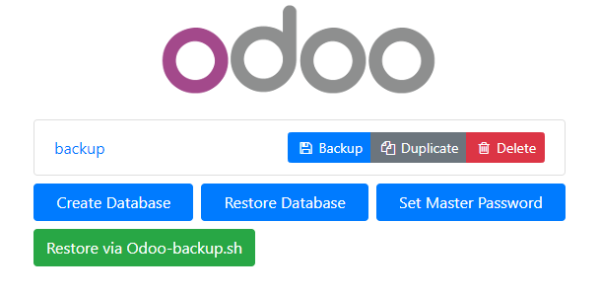
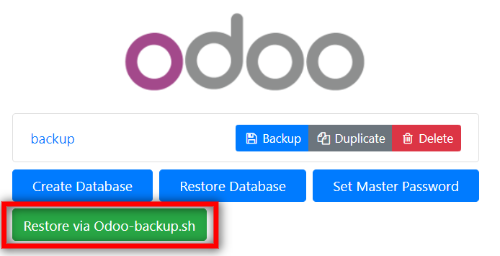
:book: upd docs based on dev and seo feedbacks'

diff --git a/odoo_backup_sh/static/description/index.html b/odoo_backup_sh/static/description/index.html
@@ -2,7 +2,7 @@
     <div class="oe_row oe_spaced">
         <div class="oe_span12">
             <h2 class="oe_slogan">Odoo Backups </h2>
-            <h3 class="oe_slogan"> Create, save, duplicate, delete, restore backups</h3>
+            <h3 class="oe_slogan"> Restore backups in one click</h3>
         </div>
     </div>
 </section>
@@ -11,8 +11,11 @@
     <div class="oe_row oe_spaced">
         <div class="oe_span12">
             <p class="oe_mt32">
-                Main feature: no need to download and upload a database archive via a browser.
-                Also you can encrypting backup archives.
+            <ul>
+                <li> This module provides an additional option for simplifying the process of managing backups with the <i>Restore a backup via Odoo-backup.sh</i> button.</li>
+                <li> Main feature: no need to download and upload a database archive via a browser.</li>
+                <li> Also you can encrypting backup archives.</li>
+            </ul>
             </p>
         </div>
     </div>
@@ -23,119 +26,88 @@
     <div class="oe_row oe_spaced">
         <div class="oe_span12">
             <h3 class="oe_slogan">How it works</h3>
+            <h2 class="oe_slogan">Backups </h2>
             <p class="oe_mt32">
-                Go to <b>Backup Dashboard</b> and press <i>Add</i> button
+                Open the menu <b>[[ Backups ]] >> Dashboard</b>
+            </p>
+            <div class="oe_demo oe_picture oe_screenshot">
+                <img src="dashboard.png"/>
+            </div>
+            <p class="oe_mt32">
+                After redirection please login into your <a href="https://www.dropbox.com/developers/apps"> Odoo account </a>
+            </p>
+            <p class="oe_mt32">
+                Set up a new configuration  <b>[[ Backups ]] >> Dashboard >> Add Database</b>
             </p>
             <div class="oe_demo oe_picture oe_screenshot">
                 <img src="add_button.png"/>
             </div>
             <p class="oe_mt32">
-                Login into your <a href="https://www.dropbox.com/developers/apps"> Odoo account </a> and start your backup process
+            <ul>
+                <li> Choose the Database in the database field</li>
+                <li> Encrypt your backup if you need, but do not forget the password</li>
+                <li> Enter <i>Interval Number, Interval Unit, New execution Date</i></li>
+                <li> Select/unselect <i>"Active"</i> checkbox </li>
+                <li> Click on <b>Save</b> button </li>
+                <li> Go to <b>[[ Backups ]] >> Dashboard</b> </li>
+                <li> Click on <b>New Backup</b> in the appeared configuration </li>
+            </ul>
             </p>
+            <div class="oe_demo oe_picture oe_screenshot">
+                <img src="configuration.png"/>
+            </div>
+
+            <div class="oe_row oe_spaced">
+                    <div class="oe_span12">
+                        <p class="oe_mt32">
+                            You can see details of your backups in the <i>Table format</i>
+                        </p>
+                        <div class="oe_demo oe_picture oe_screenshot">
+                            <img src="odoosh_details_table.png"/>
+                        </div>
+                    </div>
+            </div>
+
+            <div class="oe_row oe_spaced">
+                    <div class="oe_span12">
+                        <p class="oe_mt32">
+                            You can see a <i>Visual representation</i> of your backups</i>
+                        </p>
+                        <div class="oe_demo oe_picture oe_screenshot">
+                            <img src="odoosh_dashboard.png"/>
+                        </div>
+                    </div>
+            </div>
+
+            <h2 class="oe_slogan">Restore </h2>
+            <p class="oe_mt32">
+            <ul>
+                <li> Please proceed to the Database Manager: <b>/web/database/manager </b> </li>
+                <li> Click on <b>Restore via Odoo-backup.sh</b> button </li>
             <div class="oe_demo oe_picture oe_screenshot">
                 <img src="odoo.png"/>
             </div>
-        </div>
-    </div>
-</section>
-
-<section class="oe_container">
-    <div class="oe_row oe_spaced">
-        <div class="oe_span12">
-            <p class="oe_mt32">
-                This service provides a wide range of options for managing backups
-            </p>
-            <p class="oe_mt32">
-            <ul>
-                <li>Save a backup </li>
-                <li>Duplicate a backup</li>
-                <li>Delete a backup</li>
-                <li>Create a backup</li>
-                <li>Restore a backup</li>
-                <li>Restore a backup via Odoo-backup.sh module</li>
-            </ul>
-            </p>
-        </div>
-    </div>
-</section>
-
-<section class="oe_container oe_dark">
-    <div class="oe_row oe_spaced">
-        <div class="oe_span12">
-            <p class="oe_mt32">
-                Save a backup by choosing format you need to and confirm the action with a Master password</i>
-            </p>
-            <div class="oe_demo oe_picture oe_screenshot">
-                <img src="save.png"/>
-            </div>
-        </div>
-    </div>
-</section>
-
-<section class="oe_container oe_dark">
-    <div class="oe_row oe_spaced">
-        <div class="oe_span12">
-            <p class="oe_mt32">
-                Duplicate a backup by setting up a new name and confirm the action with a Master password</i>
-            </p>
-            <div class="oe_demo oe_picture oe_screenshot">
-                <img src="duplicate.png"/>
-            </div>
-        </div>
-    </div>
-</section>
-
-<section class="oe_container oe_dark">
-    <div class="oe_row oe_spaced">
-        <div class="oe_span12">
-            <p class="oe_mt32">
-                Delete a backup by confirming the action with a Master password</i>
-            </p>
-            <div class="oe_demo oe_picture oe_screenshot">
-                <img src="delete.png"/>
-            </div>
-        </div>
-    </div>
-</section>
-
-<section class="oe_container oe_dark">
-    <div class="oe_row oe_spaced">
-        <div class="oe_span12">
-            <p class="oe_mt32">
-                Create a backup by filling special forms and confirm the action with a Master password</i>
-            </p>
-            <div class="oe_demo oe_picture oe_screenshot">
-                <img src="create.png"/>
-            </div>
-        </div>
-    </div>
-</section>
-
-<section class="oe_container oe_dark">
-    <div class="oe_row oe_spaced">
-        <div class="oe_span12">
-            <p class="oe_mt32">
-                Restore a backup by choosing an archive and confirm the action with a Master password</i>
-            </p>
-            <div class="oe_demo oe_picture oe_screenshot">
-                <img src="restore.png"/>
-            </div>
-        </div>
-    </div>
-</section>
-
-<section class="oe_container oe_dark">
-    <div class="oe_row oe_spaced">
-        <div class="oe_span12">
-            <p class="oe_mt32">
-                Restore backups via Odoo-backup.sh module just pressing appropriate buttons from the right side</i>
-            </p>
+                <li> Choose the backup that you want to restore</li>
             <div class="oe_demo oe_picture oe_screenshot">
                 <img src="restoresh.png"/>
             </div>
+            </ul>
+            </p>
+            <p class="oe_mt32">
+            <ul>
+                <li> In the open Pop-up window enter <i>Master Password</i>, fill the <i>Database Name</i> </li>
+                <li> In order to avoid conflicts between databases choose if this database <i>was moved</i> or <i>copied</i> </li>
+                <li> Click on <b>Continue</b> button</li>
+            </ul>
+            </p>
+            <div class="oe_demo oe_picture oe_screenshot">
+                <img src="popup.png"/>
+            </div>
+            Backup is restored in one click without any additional manipulations such as <i>downloading-uploading</i> process.
         </div>
     </div>
 </section>
+
 
 
 <section class="oe_container">

diff --git a/odoo_backup_sh_google_disk/static/description/index.html b/odoo_backup_sh_google_disk/static/description/index.html
@@ -101,10 +101,25 @@
         <div class="oe_span12">
             <p class="oe_mt32">
             <ul>
-                <li>Define the <i>Name</i> </li>
-                <li>Create the <i>Password</i> if you want to encrypt the Backup</li>
-                <li>Schedule Auto Backups</li>
-                <li>Set up how many backups to preserve for certain time frames</li>
+                <li>Open the menu <b>[[ Backups ]] >> Settings</b></li>
+                <li>Choose the Dropbox and click on ``Save`` button</li>
+                <li>Enter <i>Service Account File path</i></li>
+                <li>Enter <i>Google Drive Folder ID</i></li>
+                <li>Click on ``Save`` and come back to set up the feature</li>
+            </ul>
+            <div class="oe_demo oe_picture oe_screenshot">
+                <img src="google_drive_config.png"/>
+            </div>
+            <ul>
+                <li>Set up a new configuration  <b>[[ Backups ]] >> Dashboard >> Add Database</b></li>
+                <li>Choose the Database in the database field</li>
+                <li>Define the Storage service</li>
+                <li>Encrypt your backup if you need, but do not forget the password</li>
+                <li>Enter <i>Interval Number</i>, <i>Interval Unit</i>, <i>New execution Date</i></li>
+                <li>Select/unselect <i>"Active" checkbox</i></li>
+                <li>Click on ``Save``</li>
+                <li>Go to ``[[ Backups ]] >> Dashboard``</li>
+                <li>Click on ``New Backup`` in the appeared configuration</li>
             </ul>
             </p>
             <div class="oe_demo oe_picture oe_screenshot">
@@ -113,6 +128,8 @@
         </div>
     </div>
 </section>
+
+
 
 <section class="oe_container oe_dark">
     <div class="oe_row oe_spaced">

diff --git a/odoo_backup_sh_dropbox/static/description/index.html b/odoo_backup_sh_dropbox/static/description/index.html
@@ -82,10 +82,25 @@
         <div class="oe_span12">
             <p class="oe_mt32">
             <ul>
-                <li>Define the <i>Name</i> </li>
-                <li>Create the <i>Password</i> if you want to encrypt the Backup</li>
-                <li>Schedule Auto Backups</li>
-                <li>Set up how many backups to preserve for certain time frames</li>
+                <li>Open the menu <b>[[ Backups ]] >> Settings</b></li>
+                <li>Choose the Dropbox and click on ``Save`` button</li>
+                <li>Enter <i>Dropbox Access Token</i></li>
+                <li>Enter <i>Dropbox Folder Path</i></li>
+                <li>Click on ``Save`` and come back to set up the feature</li>
+            </ul>
+                <div class="oe_demo oe_picture oe_screenshot">
+                <img src="dropbox_config.png"/>
+                </div>
+            <ul>
+                <li>Set up a new configuration  <b>[[ Backups ]] >> Dashboard >> Add Database</b></li>
+                <li>Choose the Database in the database field</li>
+                <li>Define the Storage service</li>
+                <li>Encrypt your backup if you need, but do not forget the password</li>
+                <li>Enter <i>Interval Number</i>, <i>Interval Unit</i>, <i>New execution Date</i></li>
+                <li>Select/unselect <i>"Active" checkbox</i></li>
+                <li>Click on ``Save``</li>
+                <li>Go to ``[[ Backups ]] >> Dashboard``</li>
+                <li>Click on ``New Backup`` in the appeared configuration</li>
             </ul>
             </p>
             <div class="oe_demo oe_picture oe_screenshot">

diff --git a/odoo_backup_sh/__manifest__.py b/odoo_backup_sh/__manifest__.py
@@ -5,7 +5,7 @@
     "summary": """Remote Backup Service""",
     "category": "Backup",
     # "live_test_url": "",
-    "images": [],
+    "images": ['images/odoo_backup_sh.jpg'],
     "version": "12.0.1.0.0",
 
     "author": "IT-Projects LLC, Stanislav Krotov",

diff --git a/odoo_backup_sh/doc/index.rst b/odoo_backup_sh/doc/index.rst
@@ -62,33 +62,27 @@ Each database specified in these settings will be presented in the dashboard.
 Usage
 =====
 
-* Login into your `Odoo account <https://www.odoo.com/web/login>`__
-* Click on ``Create Database`` button
-* In the open Pop-up window enter *Master Password*, fill required information such as Phone number, Language, Country, Password
-* Provide the name for Database
-* Click on ``Continue`` button
+Backups:
 
-RESULT: Backup is created.
-*The manual database creation may take some time before being ready*.
+* Open the menu ``[[ Backups ]] >> Dashboard``
+* After redireсtion please login into your `Odoo account <https://www.odoo.com/web/login>`__
+* Set up a new configuration  [[ Backups ]] >> Dashboard >> Add Database
+* Choose the Database in the database field
+* Encrypt your backup if you need, but do not forget the password
+* Enter *Interval Number*, *Interval Unit*, *New execution Date*
+* Select/unselect *"Active"* checkbox
+* Click on ``Save`` button
+* Go to ``[[ Backups ]] >> Dashboard``
+* Click on ``New Backup`` in the appeared configuration
 
-* Login into your `Odoo account <https://www.odoo.com/web/login>`__
+Restore:
+
+* Please proceed to the Database Manager: ``/web/database/manager``
 * Click on ``Restore via Odoo-backup.sh`` button
 * Choose the backup that you want to restore
-* In the open Pop-up window enter *Master Password*, fill the *Database Name*
-* Click on `Restore` button
+* In the open Pop-up window enter Master Password, fill the Database Name*
+* In order to avoid conflicts between databases choose if this database was moved or copied*
+* Click on ``Continue`` button
 
-RESULT: Backup is restored without any additional manipulations such as *downloading-uploading* process.
+RESULT: Backup is restored in one click without any additional manipulations such as "downloading-uploading process".
 *The database restore may take some time before being ready*.
-
-* Login into your `Odoo account <https://www.odoo.com/web/login>`__
-* Click on ``Restore`` button
-* Upload file that you want to restore
-* Think up the Database Name
-* In order to avoid conflicts between databases, choose the option if this database was moved or copied.
-* In the open Pop-up window enter *Master Password*, fill the *Database Name*
-* Click on `Continue` button
-
-
-RESULT: Backup is restored.
-*The database restore may take some time before being ready*.
-

diff --git a/odoo_backup_sh_google_disk/doc/index.rst b/odoo_backup_sh_google_disk/doc/index.rst
@@ -69,14 +69,20 @@ Server Deployment
 Usage
 =====
 
-* Open the menu ``[[ Backups ]] >> Dashboard``
-* Proceed with ``[[ Backups ]] >> Backups`` where Google drive databases are presented
-* ``[[ Backups ]] >> Backups``
-* Go to ``[[Backup]] >> Configuration >> Schedules and Rotations``
-* See ``[[Backup]] >> Notifications`` if new one is displayed
+* Open the menu ``[[ Backups ]] >> Settings``
+* Choose the Google disk and click on ``Save`` button
+* Enter *Service Account File path*
+* Enter *Google Drive Folder ID*
+* Click on ``Save`` button and and come back to set up the feature
+* Set up a new configuration  [[ Backups ]] >> Dashboard >> Add Database
+* Choose the Database in the database field
+* Define the Storage service
+* Encrypt your backup if you need, but do not forget the password
+* Enter *Interval Number*, *Interval Unit*, *New execution Date*
+* Select/unselect *"Active" checkbox*
+* Click on ``Save``
+* Go to ``[[ Backups ]] >> Dashboard``
+* Click on ``New Backup`` in the appeared configuration
 
-
-RESULT: You can see the main Graph with the general statistics of all your backups are stored on a remote server. After this window a special form for managing and controlling backups of your databases specially *for Google drive* is located.
-In addition to auto backup, you can make new backups manually at any time. Backups *taken by hand* are not involved in auto rotation conditions.
-
-
+RESULT: Backup is stored in the Google drive.
+*Note: Restore without additional downloading is available only for* `Odoo backup service <https://apps.odoo.com/apps/modules/12.0/odoo_backup_sh/>`__

diff --git a/odoo_backup_sh_dropbox/doc/index.rst b/odoo_backup_sh_dropbox/doc/index.rst
@@ -51,10 +51,20 @@ Config Settings
 Usage
 =====
 
-* Open the menu ``[[ Backups ]] >> Dashboard``
-* Proceed with ``[[ Backups ]] >> Backups`` where Dropbox databases are presented
-* Go to ``[[Backup]] >> Configuration >> Schedules and Rotations``
-* See ``[[Backup]] >> Notifications`` if new one is displayed
+* Open the menu ``[[ Backups ]] >> Settings``
+* Choose the Dropbox and click on ``Save`` button
+* Enter *Dropbox Access Token*
+* Enter *Dropbox Folder Path*
+* Click on ``Save`` button
+* Set up a new configuration  [[ Backups ]] >> Dashboard >> Add Database
+* Choose the Database in the database field
+* Define the Storage service
+* Encrypt your backup if you need, but do not forget the password
+* Enter *Interval Number*, *Interval Unit*, *New execution Date*
+* Select/unselect *"Active" checkbox*
+* Click on ``Save`` and come back to set up the feature
+* Go to ``[[ Backups ]] >> Dashboard``
+* Click on ``New Backup`` in the appeared configuration
 
-RESULT: You can see the main Graph with the general statistics of all your backups are stored on a remote server. After this window a special form for managing and controlling backups of your databases specially *for Dropbox* is located.
-In addition to auto backup, you can make new backups manually at any time. Backups *taken by hand* are not involved in auto rotation conditions.
+RESULT: Backup is stored in the Dropbox cloud.
+*Note: Restore without additional downloading is available only for* `Odoo backup service <https://apps.odoo.com/apps/modules/12.0/odoo_backup_sh/>`__
